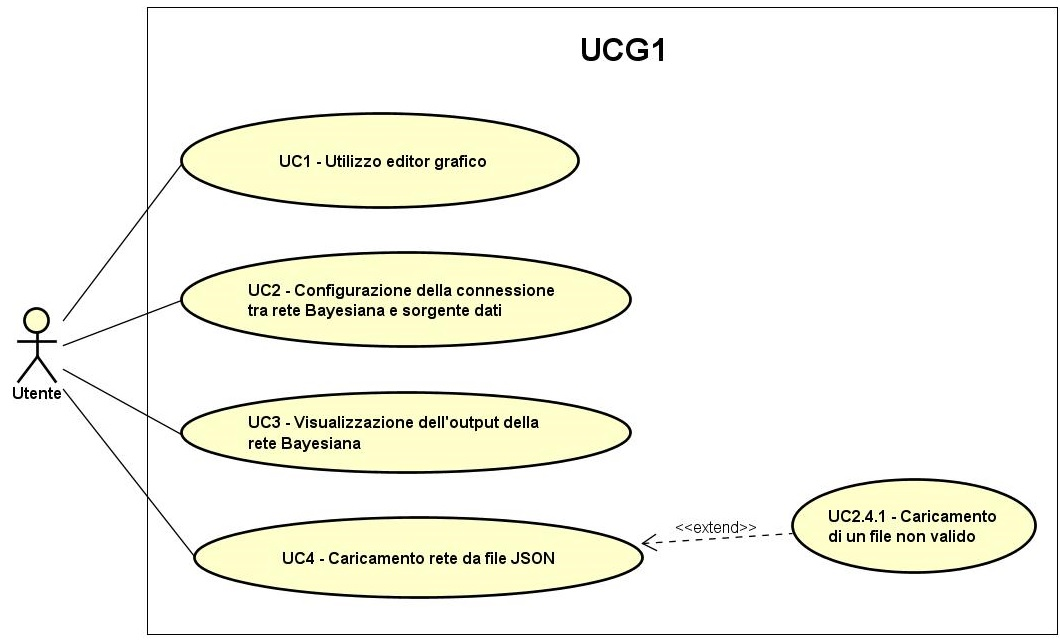
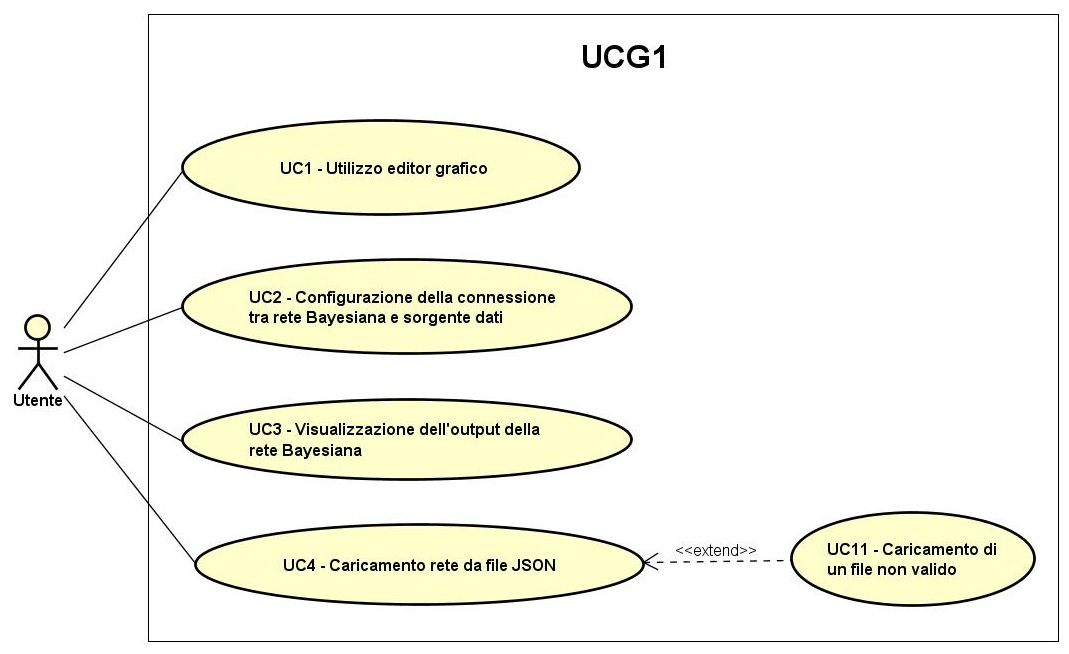
[AR] corretto UC7

diff --git a/AnalisiDeiRequisiti/Res/Sezioni/UseCase-Dashboard.tex b/AnalisiDeiRequisiti/Res/Sezioni/UseCase-Dashboard.tex
@@ -83,8 +83,8 @@
 \end{figure}
 \begin{itemize}
 	\item \textbf{Attori}: Utente;
-	\item \textbf{Scopo e descrizione}: l'attore configura le opzioni relative alla visualizzazione dei dati nei panel;
-	\item \textbf{Precondizione}: la dashboard e il panel che si vuole configurare sono stati caricati;
+	\item \textbf{Scopo e descrizione}: l'attore, dopo aver creato un nuovo panel, ne configura le opzioni relative alla visualizzazione dei dati;
+	\item \textbf{Precondizione}: l'attore ha creato un nuovo panel;
 	\item \textbf{Scenario principale}:
 	\begin{itemize}
 		\item Selezione flusso dati  (UC7.1.1);
@@ -97,25 +97,28 @@
 \hypertarget{UC7.1.1}{}
 \begin{itemize}
 	\item \textbf{Attori}: Utente;
-	\item \textbf{Scopo e descrizione}: l'utente può selezionare il flusso di dati dentro il panel;
-	\item \textbf{Precondizione}: la dashboard e il panel che si vuole configurare sono stati caricati e l'utente vuole selezionare il flusso di dati dentro il panel;
-	\item \textbf{Postcondizione}: il panel ha subito la selezione del flusso di dati scelto dall'utente.
+	\item \textbf{Scopo e descrizione}: l'utente può selezionare il flusso di dati dentro il nuovo panel;
+	\item \textbf{Precondizione}: l'utente ha creato un nuovo panel e ne vuole selezionare il flusso di dati;
+	\item \textbf{Scenario principale}: un nuovo panel è stato creato e l'attore ne vuole selezionare il flusso di dati;
+	\item \textbf{Postcondizione}: il nuovo panel ha subito la selezione del flusso di dati scelto dall'utente.
 \end{itemize}
 \subsection{UC7.1.2: Selezione nodo rete Bayesiana }
 \hypertarget{UC7.1.2}{}
 \begin{itemize}
 	\item \textbf{Attori}: Utente;
-	\item \textbf{Scopo e descrizione}: l'utente può selezionare il nodo della rete Bayesiana da visualizzare dentro il panel;
-	\item \textbf{Precondizione}: la dashboard e il panel che si vuole configurare sono stati caricati e l'utente vuole selezionare il nodo della rete Bayesiana da visualizzare dentro il panel;
-	\item \textbf{Postcondizione}: il panel ha subito la selezione del nodo scelto dall'utente.
+	\item \textbf{Scopo e descrizione}: l'utente può selezionare il nodo della rete Bayesiana da visualizzare dentro il nuovo panel;
+	\item \textbf{Precondizione}: l'utente ha creato un nuovo panel e ne  vuole selezionare il nodo della rete Bayesiana da visualizzare al suo interno;
+	\item \textbf{Scenario principale}: un nuovo panel è stato creato e l'attore ne vuole selezionare il nodo della rete Bayesiana da visualizzare al suo interno;
+	\item \textbf{Postcondizione}: il nuovo panel ha subito la selezione del nodo scelto dall'utente.
 \end{itemize}
-\subsection{UC7.1.3: Selezione intervallo di tempo  }
+\subsection{UC7.1.3: Selezione intervallo di tempo }
 \hypertarget{UC7.1.3}{}
 \begin{itemize}
 	\item \textbf{Attori}: Utente;
-	\item \textbf{Scopo e descrizione}: l'utente può selezionare l'intervallo di tempo da visualizzare dentro il panel;
-	\item \textbf{Precondizione}: la dashboard e il panel che si vuole configurare sono stati caricati e l'utente vuole selezionare l'intervallo di tempo da visualizzare dentro il panel;
-	\item \textbf{Postcondizione}: il panel ha subito la selezione dell'intervallo di tempo scelto dall'utente.
+	\item \textbf{Scopo e descrizione}: l'utente può selezionare l'intervallo di tempo da visualizzare dentro il nuovo panel;
+	\item \textbf{Precondizione}: l'utente ha creato un nuovo panel e ne vuole selezionare l'intervallo di tempo da visualizzare;
+	\item \textbf{Scenario principale}: un nuovo panel è stato creato e l'attore ne vuole selezionare l'intervallo di tempo da visualizzare;
+	\item \textbf{Postcondizione}: il nuovo panel ha subito la selezione dell'intervallo di tempo scelto dall'utente.
 \end{itemize}
 \subsection{UC7.2: Modifica di un panel}
 \hypertarget{UC7.2}{}
@@ -126,22 +129,50 @@
 \end{figure}
 \begin{itemize}
 	\item \textbf{Attori}: Utente;
-	\item \textbf{Scopo e descrizione}: l'attore modifica le opzioni relative alla visualizzazione dei dati nei panel;
-	\item \textbf{Precondizione}: la dashboard e il panel che si vuole modificare sono stati caricati;
+	\item \textbf{Scopo e descrizione}: l'attore modifica le opzioni relative alla visualizzazione dei dati in un panel già configurato;
+	\item \textbf{Precondizione}: il panel è già stato configurato in precedenza;
 	\item \textbf{Scenario principale}:
 	\begin{itemize}
-		\item Selezione flusso dati  (UC7.1.1);
-		\item Selezione nodo rete Bayesiana(UC7.1.2);
-		\item Selezione intervallo di tempo (UC7.1.3);
-		\item Modifiche standard Grafana  (UC7.2.1).		
+		\item Modifica flusso dati  (UC7.2.1);
+		\item Modifica nodo rete Bayesiana(UC7.2.2);
+		\item Modifica intervallo di tempo (UC7.2.3);
+		\item Modifiche standard di Grafana  (UC7.2.4).		
 	\end{itemize}
 	\item \textbf{Postcondizione}: il panel è stato modificato.
 \end{itemize}
-\subsection{UC7.2.1: Modifiche standard Grafana}
+\subsection{UC7.2.1: Modifica flusso dati}
 \hypertarget{UC7.2.1}{}
 \begin{itemize}
 	\item \textbf{Attori}: Utente;
+	\item \textbf{Scopo e descrizione}: l'utente può modificare il flusso di dati dentro il panel;
+	\item \textbf{Precondizione}: il panel è già configurato e l'utente ne vuole selezionare il flusso di dati;
+	\item \textbf{Scenario principale}: l'attore vuole modificare il flusso di dati dentro un panel che è già stato configurato in precedenza;
+	\item \textbf{Postcondizione}: il panel ha subito la modifica del flusso di dati scelto dall'utente.
+\end{itemize}
+\subsection{UC7.2.2: Modifica nodo rete Bayesiana }
+\hypertarget{UC7.2.2}{}
+\begin{itemize}
+	\item \textbf{Attori}: Utente;
+	\item \textbf{Scopo e descrizione}: l'utente può modificare il nodo della rete Bayesiana da visualizzare dentro il panel;
+	\item \textbf{Precondizione}: il panel è già configurato e l'utente ne vuole modificare il nodo della rete Bayesiana da visualizzare al suo interno;
+	\item \textbf{Scenario principale}: l'attore vuole modificare il nodo della rete Bayesiana da visualizzare all'interno di un panel che è già stato configurato in precedenza;
+	\item \textbf{Postcondizione}: il panel ha subito la modifica del nodo scelto dall'utente.
+\end{itemize}
+\subsection{UC7.3.3: Selezione intervallo di tempo }
+\hypertarget{UC7.3.3}{}
+\begin{itemize}
+	\item \textbf{Attori}: Utente;
+	\item \textbf{Scopo e descrizione}: l'utente può modificare l'intervallo di tempo da visualizzare dentro il panel;
+	\item \textbf{Precondizione}: il panel è già configurato e l'utente ne vuole modificare l'intervallo di tempo da visualizzare;
+	\item \textbf{Scenario principale}: l'attore vuole selezionare l'intervallo di tempo da visualizzare in un panel che è già stato configurato in precedenza;
+	\item \textbf{Postcondizione}: il panel ha subito la modifica dell'intervallo di tempo scelto dall'utente.
+\end{itemize}
+\subsection{UC7.2.4: Modifiche standard di Grafana}
+\hypertarget{UC7.2.4}{}
+\begin{itemize}
+	\item \textbf{Attori}: Utente;
 	\item \textbf{Scopo e descrizione}: l'utente può effettuare le modifiche standard previste da Grafana dentro il panel;
-	\item \textbf{Precondizione}: la dashboard e il panel che si vuole modificare sono stati caricati e l'utente vuole effettuare le modifiche standard previste da Grafana dentro il panel;
+	\item \textbf{Precondizione}: il panel è già configurato e l'utente vuole effettuare le modifiche standard previste da Grafana;
+	\item \textbf{Scenario principale}: l'attore vuole effettuare le modifiche standard previste da Grafana in un panel che è già stato configurato in precedenza;
 	\item \textbf{Postcondizione}: il panel ha subito le modifiche standard previste da Grafana scelto dall'utente.
 \end{itemize}

diff --git a/AnalisiDeiRequisiti/Res/Sezioni/UseCase-Lettura.tex b/AnalisiDeiRequisiti/Res/Sezioni/UseCase-Lettura.tex
@@ -1,4 +1,4 @@
-\subsection{UC2:  Configurazione della connessione tra rete Bayesiana e sorgente dati}
+\subsection{UC2: Configurazione della connessione tra rete Bayesiana e sorgente dati}
 \hypertarget{UC2}{}
 \begin{figure} [H]
 	\centering
@@ -19,7 +19,7 @@
 	\item \textbf{Postcondizione}: la connessione tra la rete Bayesiana e la sorgente dati è configurata correttamente.
 \end{itemize}
 
-\subsection{UC2.1 - Gestione della connessione tra un nodo ed un flusso di dati}
+\subsection{UC2.1: Gestione della connessione tra un nodo ed un flusso di dati}
 \hypertarget{UC2.1}{}
 \begin{figure} [H]
 	\centering
@@ -135,7 +135,7 @@
 	\item \textbf{Postcondizione}: l'attore viene notificato dell'errore, il sistema rimane nello stato precedente all'azione.
 \end{itemize}
 
-\subsection{UC2.6: Caricamento di un file non valido}
+\subsection{UC2.6: Caricamento di una configurazione non valida}
 \hypertarget{UC2.6}{}
 \begin{itemize}
 	\item \textbf{Attori}: Utente;
@@ -185,6 +185,6 @@
 	\item \textbf{Postcondizione}: la rete Bayesiana viene creata secondo le informazioni salvate nel file;
 	\item \textbf{Estensioni}:
 	\begin{itemize}
-		\item Viene caricato un file dal contenuto non valido e/o in un formato non valido, il sistema rimane nello stato precedente all'azione (UC2.4.1).
+		\item Viene caricato un file dal contenuto non valido e/o in un formato non valido, il sistema rimane nello stato precedente all'azione (UC11).
 	\end{itemize}
 \end{itemize}

diff --git a/AnalisiDeiRequisiti/Res/Diario.tex b/AnalisiDeiRequisiti/Res/Diario.tex
@@ -6,6 +6,9 @@
 	\thead{Versione} & \thead{Data} & \thead{Descrizione} & \thead{Autore} &\thead{Ruolo}   \\
 	\hlineB{3}
 	\endhead
+		1.4.1 & 2019-02-04 & \emph{Corretti sottocasi di UC7} &  & Analista \\
+		\hline
+	
 		1.4.1 & 2019-02-04 & \emph{Corretto UC2.3} &  & Analista \\
 		\hline
 		
